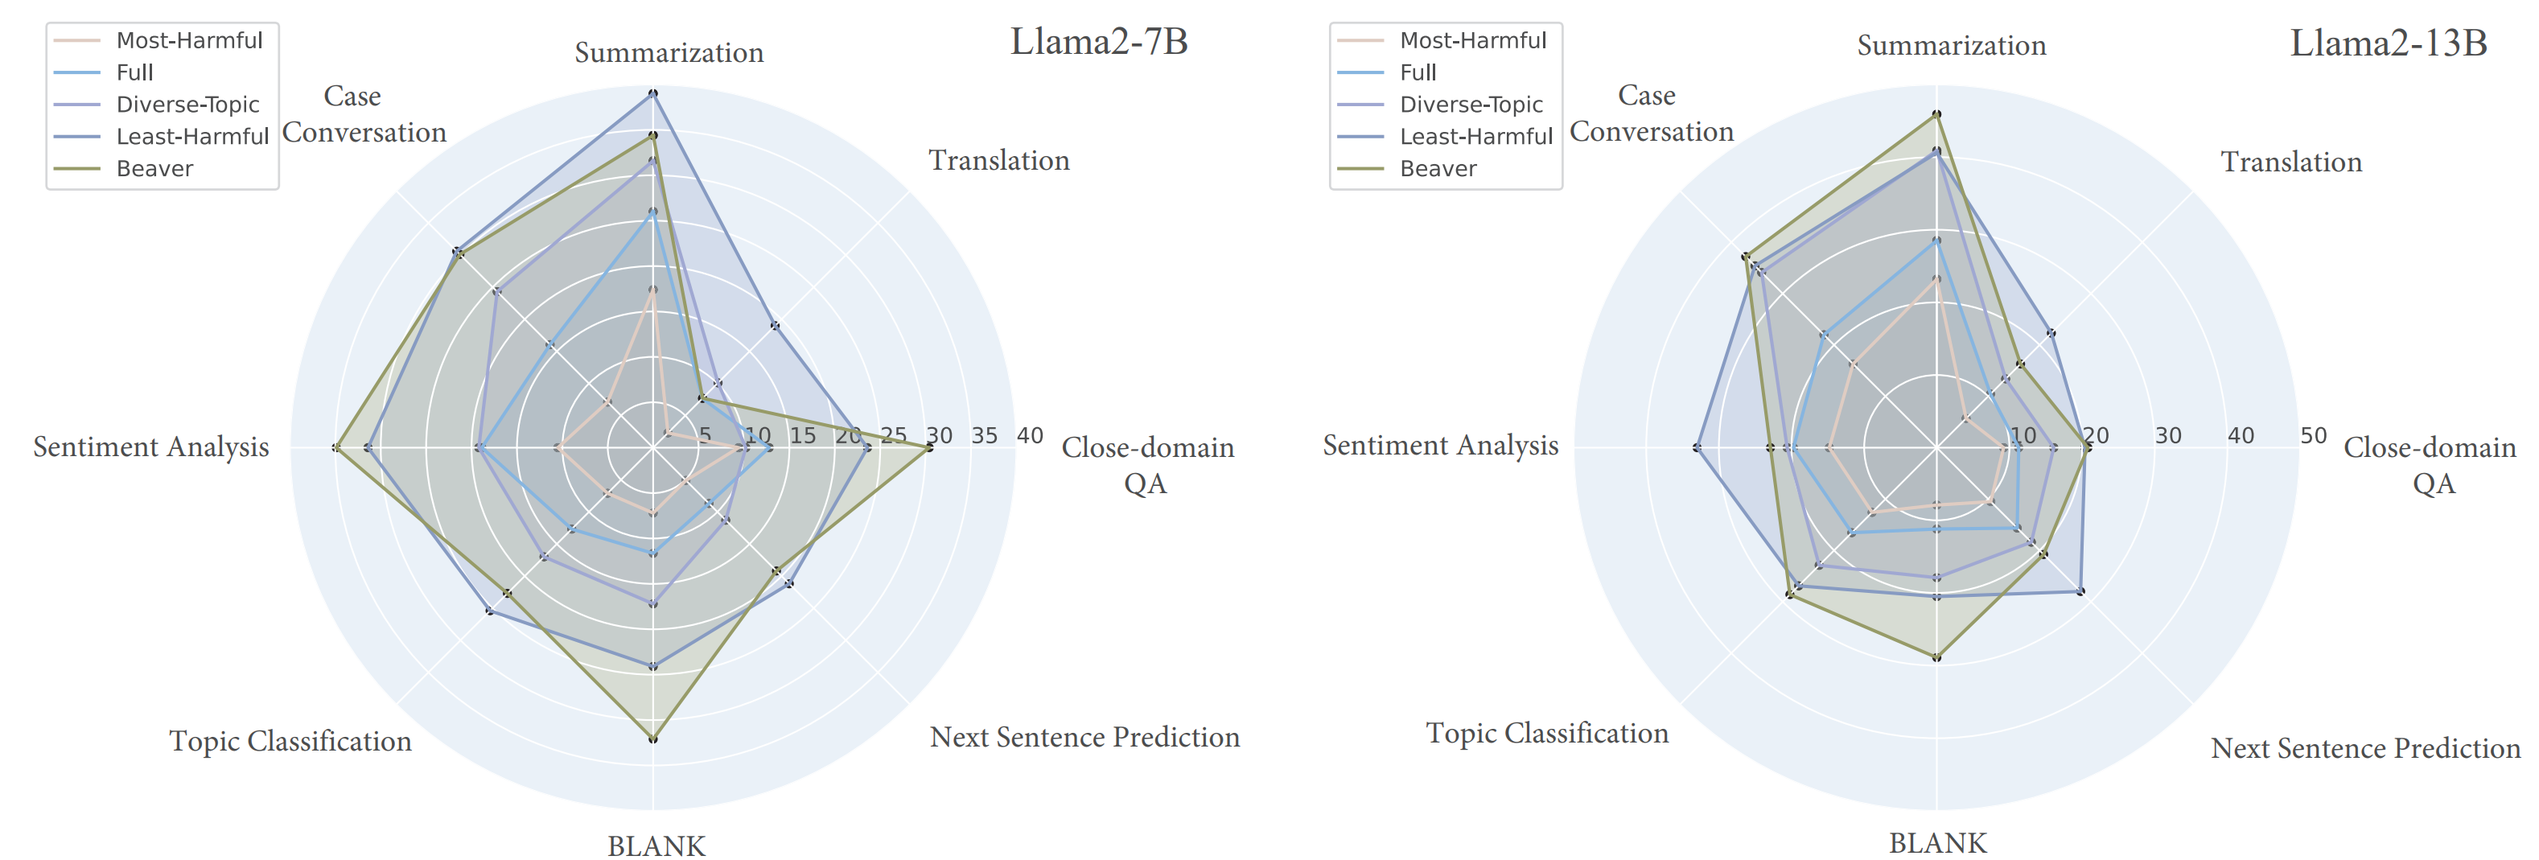
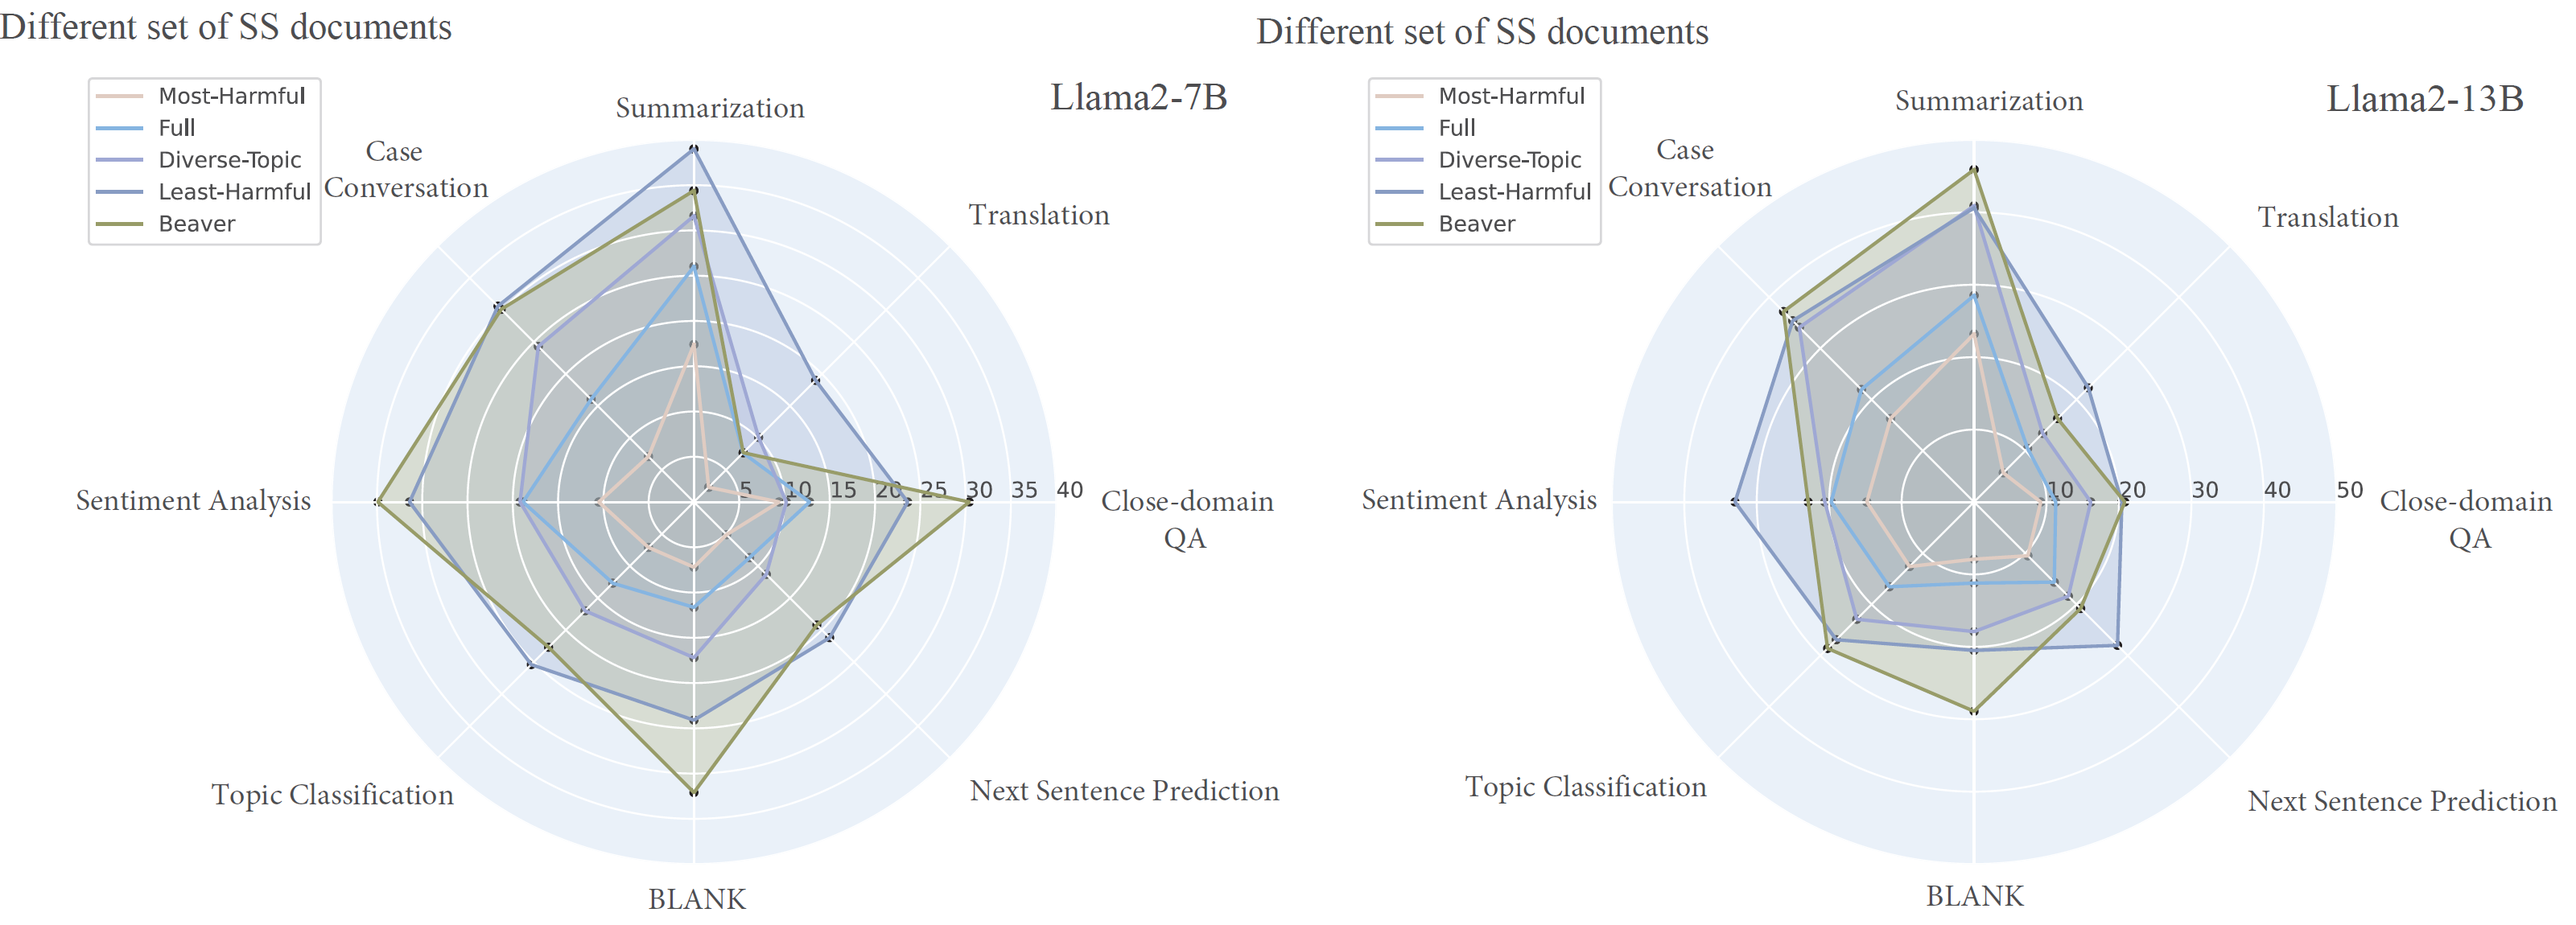
update

diff --git a/index.html b/index.html
@@ -172,7 +172,11 @@
           </center>
           <div class="level-set has-text-justified">
             <p>
-               main figures.
+              <ol>
+              <li><strong>NLP Tasks Have Different Levels of Safety Alignment:</strong> We designed a novel setup using NLP task prompts and safety-sensitive documents, creating a dataset of 6,985 articles from adversarial attacks, to test whether different NLP tasks have varying levels of safety alignment. We found that tasks like summarization have notably lower safety alignment compared to translation or QA tasks. <br>
+              <li><strong>Weakly Aligned NLP Tasks as In-Context Attacks:</strong> The varying safety alignments among NLP tasks present a vulnerability. We discovered that performing weakly aligned NLP task first increases the likelihood of LLMs processing safety-sensitive documents for other tasks. This effect is further amplified when combining multiple weakly-aligned tasks. <br>
+              <li><strong>Vulnerability Cause Investigation:</strong> Our experiments indicate that safety alignment discrepancies in NLP tasks stem from an imbalanced trade-off between the usefulness from instruction tuning and the safety of alignment. Our ablation study reveals that summarization attacks are more frequently blocked on shorter documents than longer ones, possibly due to a prevalence of shorter documents in safety alignment. These findings are crucial for enhancing safety alignment research and building stronger defenses.
+              </ol>
             </p>
           </div>
         </div>
@@ -186,7 +190,7 @@
     <div class="columns is-centered">
       <div class="column is-full">
         <div class="content">
-          <h2 class="title is-3">Task Process Rate Result</h2>
+          <h2 class="title is-3">Task Process Rate Result on Safety-Sentitive Documents</h2>
           <center>
           <img src="static/images/radio-merge-use.png" alt="Safety Alignment NLP" class="center-image blend-img-background"/>
           </center>
